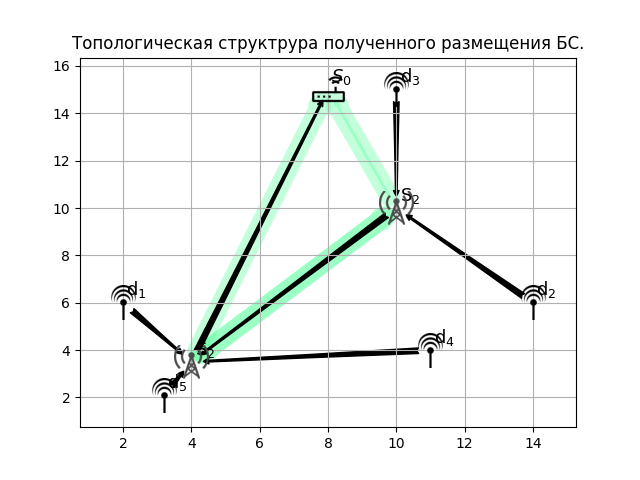
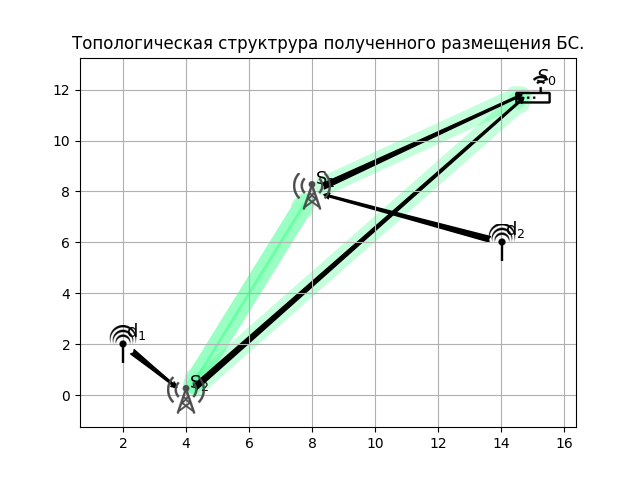
a

diff --git a/lp_solution.py b/lp_solution.py
@@ -115,30 +115,15 @@ if __name__ == "__main__":
 
     problem = create_lpop(input_data, net)
     draw_input_data(net)
-    x = solve_lp_problem(obj_func=problem.of.data.values,
-                         ineq_array=problem.ineq_constraints.data.values,
-                         ineq_b=problem.ineq_constraints.b,
-                         eq_array=problem.eq_constraints.data.values,
-                         eq_b=problem.eq_constraints.b,
-                         lb=problem.of.lower_bounds,
-                         ub=problem.of.upper_bounds)
-    # if solver == 'gurobi':
-    #     x = src.gurobi.milp_problem.solve(problem)
-    # else:
-    #     x = src.matlab.milp_problem.solve(problem.of.data.values,
-    #                                       problem.of.int_constraints,
-    #                                       problem.ineq_constraints.data.values,
-    #                                       problem.ineq_constraints.b,
-    #                                       problem.eq_constraints.data.values,
-    #                                       problem.eq_constraints.b,
-    #                                       problem.of.lower_bounds,
-    #                                       problem.of.upper_bounds)
-    #
-    # solution = pd.Series(x, index=problem.of.data.columns.values).T
-    # placed_station = solution[problem.of.column.y].values
-    # # placed_station.tolist()
-    #
-    #
-    # draw_mip_graph(net, problem, solution)
+    result = solve_lp_problem(obj_func=problem.of.data.values,
+                              ineq_array=problem.ineq_constraints.data.values,
+                              ineq_b=problem.ineq_constraints.b,
+                              eq_array=problem.eq_constraints.data.values,
+                              eq_b=problem.eq_constraints.b,
+                              lb=problem.of.lower_bounds,
+                              ub=problem.of.upper_bounds)
+
+    solution = pd.Series(result.x, index=problem.of.data.columns.values).T
+    draw_mip_graph(net, problem, solution)
 
     debug = 1

diff --git a/mip_solution.py b/mip_solution.py
@@ -104,7 +104,7 @@ def prepare_mip_input_data(data: Dict) -> InputData:
 
 
 if __name__ == "__main__":
-    with open("./input/problem_test_4.json") as f:
+    with open("./input/problem_test_5.json") as f:
         data_from_json = json.load(f)
 
     solver = "gurobi"

diff --git a/src/op/mipop.py b/src/op/mipop.py
@@ -109,8 +109,6 @@ class OF(Matrix):
         self.prepare_of_variables(input_data, var_name, col_name)
 
 
-
-
 class Constraints(Matrix):
     """ Matrix of constraints"""
     def __init__(self, var: VarName, column: VarName):
